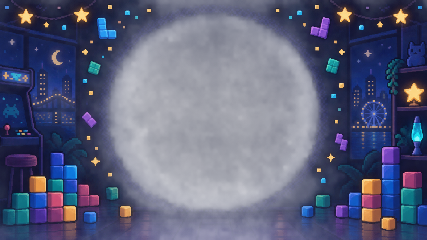
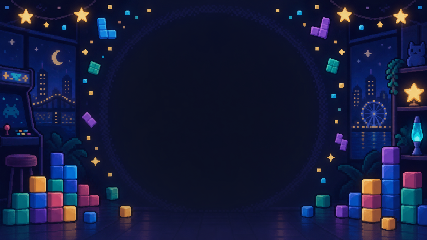
Flatten Blocks backgrounds for retained rendering

diff --git a/tests/game_cases/blocks/test_assets.py b/tests/game_cases/blocks/test_assets.py
@@ -8,4 +8,8 @@ BACKGROUND_DIRECTORY = Path(__file__).resolve().parents[3] / "src/games/blocks/a
 
 def test_backgrounds_are_present_at_the_logical_canvas_size():
     for name in ("splash", "game", "result"):
-        assert pygame.image.load(BACKGROUND_DIRECTORY / f"{name}.png").get_size() == (427, 240)
+        image = pygame.image.load(BACKGROUND_DIRECTORY / f"{name}.png")
+        assert image.get_size() == (427, 240)
+        # Screens are retained and partially redrawn.  Their background must
+        # replace old pixels rather than alpha-blending stale gameplay below.
+        assert image.get_masks()[3] == 0
